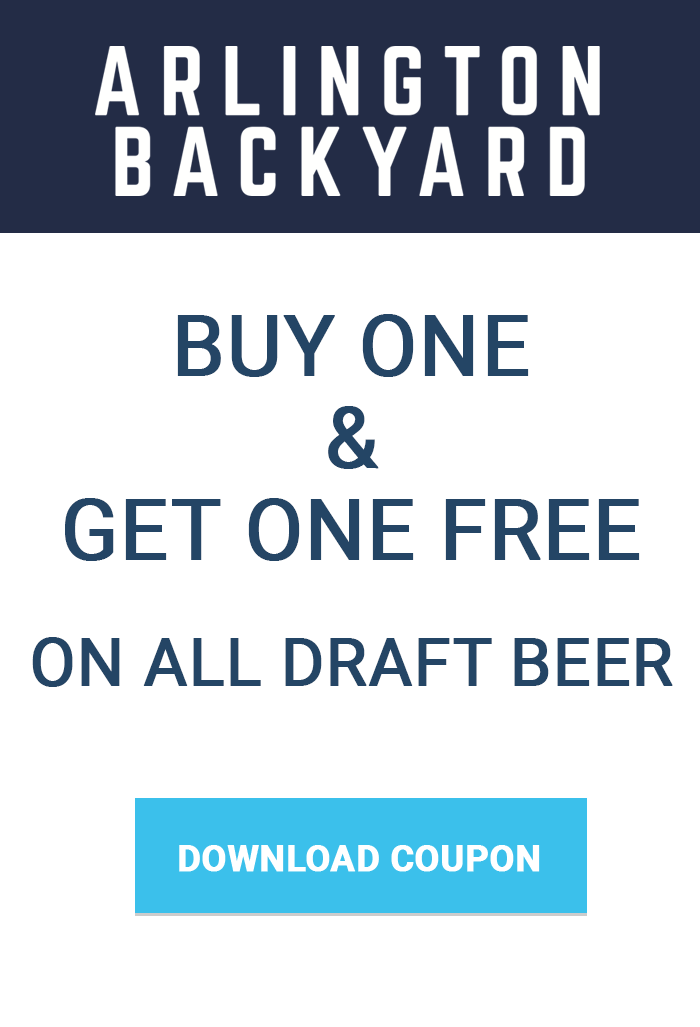
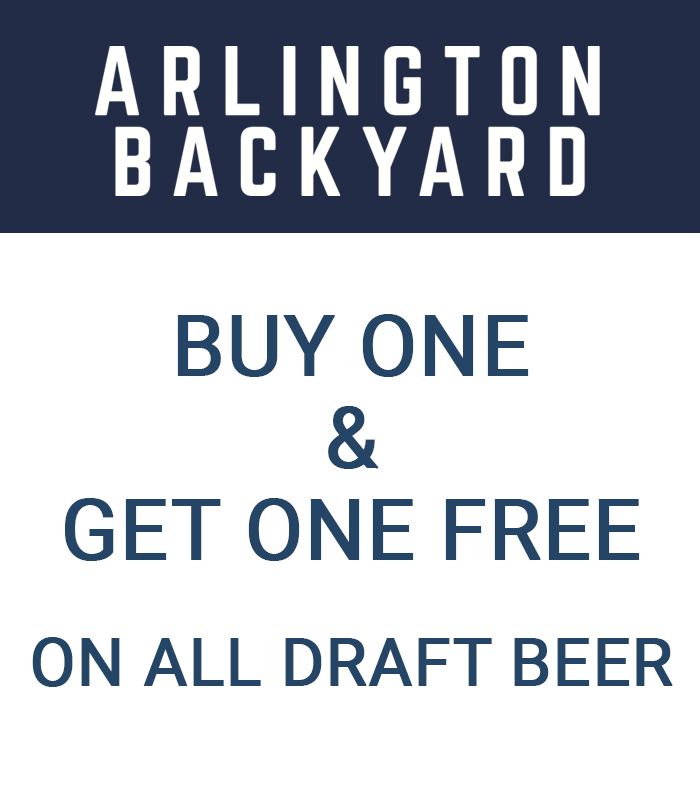
adding coupon

diff --git a/via/index.htm b/via/index.htm
@@ -117,7 +117,8 @@
     <div class="container displayOff" id="screen_7">
         <div class="row">
             <div class="col-xs-12">
-                <img class="img-responsive center-block"  style="opacity: 0.9;"src="img/coupon_screen.png" alt="" border="0" onclick="showPanel('1')"/>
+                <img class="img-responsive center-block"  style="opacity: 0.9;"src="img/coupon_screen.png" alt="" border="0"/>
+                <img class="img-responsive center-block"  style="opacity: 0.9;"src="img/download_coupon_btn.png" alt="" border="0"/>
             </div>
         </div>
     </div>
